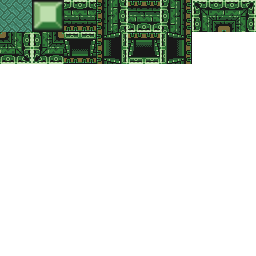
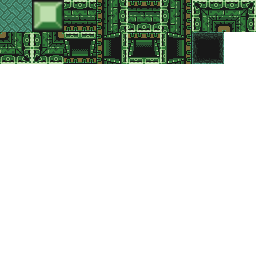
Added creature support.

Changed region(s): [[0.75, 0.125, 0.875, 0.25]]

diff --git a/src/level.c b/src/level.c
@@ -1,6 +1,7 @@
 #include "headers.h"
 #include "core/gfx.h"
 #include "main.h"
+#include "creature.h"
 #include "level.h"
 
 RoomData room_list[32] = {0};
@@ -18,6 +19,11 @@ static void generate_rooms(Level* level, int x, int y, Dir came_from, int depth)
     room->valid = true;
     room->discovered = false;
     room->color = rand();
+    room->index = level_get_room_index(x,y);
+
+    int n = rand() % 3;
+    for(int i = 0; i < n; ++i)
+        creature_add(room,CREATURE_TYPE_SLUG);
 
     if(x == (MAX_ROOMS_GRID_X / 2) && y == (MAX_ROOMS_GRID_Y / 2))
     {
@@ -158,7 +164,7 @@ static void generate_walls(Level* level)
                         {
                             TileType tt = rdata->tiles[ri][rj];
 
-                            if(tt == TILE_BOULDER)
+                            if(tt == TILE_PIT || tt == TILE_BOULDER)
                             {
                                 TileType check_tile = rdata->tiles[ri][rj];
                                 bool is_vertical = false;
@@ -172,7 +178,7 @@ static void generate_walls(Level* level)
                                     default: break;
                                 }
 
-                                if(check_tile != TILE_BOULDER)
+                                if(check_tile != TILE_PIT && check_tile != TILE_BOULDER)
                                 {
                                     Wall* w = &room->walls[room->wall_count++];
 
@@ -268,7 +274,8 @@ static bool level_load_room_list()
         switch(c)
         {
             case '.': *tile = TILE_FLOOR; break;
-            case 'o': *tile = TILE_BOULDER; break;
+            case 'p': *tile = TILE_PIT; break;
+            case 'b': *tile = TILE_BOULDER; break;
             default: break;
         }
     }
@@ -287,7 +294,8 @@ void level_print_room(Room* room)
             switch(*tile)
             {
                 case TILE_FLOOR:   printf("."); break;
-                case TILE_BOULDER: printf("o"); break;
+                case TILE_PIT:     printf("p"); break;
+                case TILE_BOULDER: printf("b"); break;
                 default: printf("%c", *tile+65);break;
             }
         }
@@ -372,6 +380,7 @@ void level_draw_room(Room* room, float xoffset, float yoffset)
             switch(tt)
             {
                 case TILE_FLOOR:   sprite = SPRITE_TILE_FLOOR; break;
+                case TILE_PIT:     sprite = SPRITE_TILE_PIT; break;
                 case TILE_BOULDER: sprite = SPRITE_TILE_BLOCK; break;
                 default: break;
             }
@@ -463,7 +472,7 @@ void level_sort_walls(Wall* walls, int wall_count, float x, float y, float radiu
 //     printf("%2d | %d, %d\n", i, xy.x, xy.y);
 // }
 
-int level_get_room_index(int x, int y)
+uint8_t level_get_room_index(int x, int y)
 {
     return y*MAX_ROOMS_GRID_X + x;
 }

diff --git a/src/creature.c b/src/creature.c
@@ -1,0 +1,67 @@
+#include "headers.h"
+#include "main.h"
+#include "math2d.h"
+#include "window.h"
+#include "level.h"
+#include "log.h"
+#include "player.h"
+#include "glist.h"
+#include "creature.h"
+
+Creature creatures[MAX_CREATURES];
+glist* clist = NULL;
+
+static int creature_image;
+
+void creature_init()
+{
+    clist = list_create((void*)creatures, MAX_CREATURES, sizeof(Creature));
+    creature_image = gfx_load_image("src/img/creature_slug.png", false, false, 16, 17);
+}
+
+void creature_add(Room* room, CreatureType type)
+{
+    Creature c = {0};
+
+    int x0 = room_area.x - room_area.w/2.0;
+    int y0 = room_area.y - room_area.h/2.0;
+
+    c.type = type;
+    c.curr_room = room->index;
+    c.phys.pos.x = x0 + TILE_SIZE*(rand() % ROOM_TILE_SIZE_X + 1) + 8;
+    c.phys.pos.y = y0 + TILE_SIZE*(rand() % ROOM_TILE_SIZE_Y + 1) + 8;
+    c.color = room->color;
+    c.sprite_index = 0;
+
+    list_add(clist, (void*)&c);
+}
+
+void creature_update(Creature* c, float dt)
+{
+}
+
+void creature_update_all(float dt)
+{
+    for(int i = clist->count; i >= 0; --i)
+    {
+        Creature* c = &creatures[i];
+        creature_update(c, dt);
+    }
+}
+
+void creature_draw(Creature* c)
+{
+    if(c->curr_room != player->curr_room)
+        return;
+
+    gfx_draw_image(creature_image, c->sprite_index, c->phys.pos.x, c->phys.pos.y, c->color, 1.0, 0.0, 1.0, false, true);
+}
+
+void creature_draw_all()
+{
+    for(int i = clist->count; i >= 0; --i)
+    {
+        Creature* c = &creatures[i];
+        creature_draw(c);
+    }
+}

diff --git a/src/net.c b/src/net.c
@@ -446,9 +446,11 @@ static void server_send(PacketType type, ClientInfo* cli)
 
             for(int i = 0; i < plist->count; ++i)
             {
-                pack_u16(&pkt,projectiles[i].id);
-                pack_vec2(&pkt,projectiles[i].phys.pos);
-                pack_u8(&pkt,projectiles[i].player_id);
+                Projectile* p = &projectiles[i];
+                pack_u16(&pkt,p->id);
+                pack_vec2(&pkt,p->phys.pos);
+                pack_u8(&pkt,p->player_id);
+                pack_u8(&pkt,p->curr_room);
             }
 
             //print_packet(&pkt);
@@ -1335,7 +1337,9 @@ void net_client_update()
                             uint16_t id = unpack_u16(&srvpkt, &offset);
                             Vector2f pos = unpack_vec2(&srvpkt, &offset);
                             uint8_t player_id = unpack_u8(&srvpkt, &offset);
+                            uint8_t room_id = unpack_u8(&srvpkt, &offset);
 
+                            p->curr_room = room_id;
                             p->lerp_t = 0.0;
 
                             //LOGN("      Pos: %f, %f. Angle: %f", pos.x, pos.y, angle);

diff --git a/src/main.c b/src/main.c
@@ -13,6 +13,7 @@
 #include "level.h"
 #include "projectile.h"
 #include "player.h"
+#include "creature.h"
 #include "net.h"
 #include "text_list.h"
 
@@ -347,6 +348,7 @@ void start_server()
 
     gfx_image_init();
     player_init();
+    creature_init();
 
     srand(time(0));
     seed = rand();
@@ -398,6 +400,9 @@ void init()
     LOGI(" - Player.");
     player = &players[0];
     player_init();
+
+    LOGI(" - Creatures.");
+    creature_init();
 
     LOGI(" - Effects.");
     effects_load_all();
@@ -634,6 +639,7 @@ void update(float dt)
         {
             player_update(player, dt);
             projectile_update(dt);
+            creature_update_all(dt);
         }
     }
 
@@ -844,6 +850,8 @@ void draw()
 
         if(player->curr_room == player->transition_room)
         {
+            creature_draw_all();
+
             // draw player
             for(int i = 0; i < MAX_PLAYERS; ++i)
             {

diff --git a/src/level.h b/src/level.h
@@ -19,6 +19,7 @@ typedef enum
 {
     TILE_NONE = 0,
     TILE_FLOOR,
+    TILE_PIT,
     TILE_BOULDER,
 } TileType;
 
@@ -47,6 +48,7 @@ typedef enum
     SPRITE_TILE_DOOR_RIGHT,
     SPRITE_TILE_DOOR_DOWN,
     SPRITE_TILE_DOOR_LEFT,
+    SPRITE_TILE_PIT,
     SPRITE_TILE_MAX,
 } SpriteTileType;
 
@@ -66,6 +68,7 @@ typedef struct
     Wall walls[100];
     int wall_count;
     int layout;
+    uint8_t index;
     bool discovered;
 } Room;
 
@@ -89,7 +92,7 @@ void level_print(Level* level);
 void level_print_room(Room* room);
 void level_sort_walls(Wall* walls, int wall_count, float x, float y, float radius);
 
-int level_get_room_index(int x, int y);
+uint8_t level_get_room_index(int x, int y);
 Vector2i level_get_room_coords(int index);
 
 bool level_is_room_valid(Level* level, int x, int y);

diff --git a/src/creature.h b/src/creature.h
@@ -1,0 +1,26 @@
+#pragma once
+
+#include "physics.h"
+
+#define MAX_CREATURES 256
+
+typedef enum
+{
+    CREATURE_TYPE_SLUG,
+} CreatureType;
+
+typedef struct
+{
+    CreatureType type;
+    Physics phys;
+    uint32_t color;
+    uint8_t sprite_index;
+    uint8_t curr_room;
+} Creature;
+
+void creature_init();
+void creature_add(Room* room, CreatureType type);
+void creature_update(Creature* c, float dt);
+void creature_update_all(float dt);
+void creature_draw(Creature* c);
+void creature_draw_all();

diff --git a/src/player.c b/src/player.c
@@ -458,7 +458,7 @@ void player_update(Player* p, float dt)
     GFXImage* img = &gfx_images[player_image];
     Rect* vr = &img->visible_rects[p->sprite_index];
 
-    const float pcooldown = 0.1; //seconds
+    const float pcooldown = 0.4; //seconds
 
     if(p->actions[PLAYER_ACTION_SHOOT].state)
     {

diff --git a/src/projectile.c b/src/projectile.c
@@ -15,7 +15,7 @@ static int projectile_image;
 static uint16_t id_counter = 0;
 
 ProjectileDef projectile_lookup[] = {
-    {10.0, 100.0, 400.0} // laser
+    {10.0, 64.0, 128.0} // laser
 };
 
 static void projectile_remove(int index)
